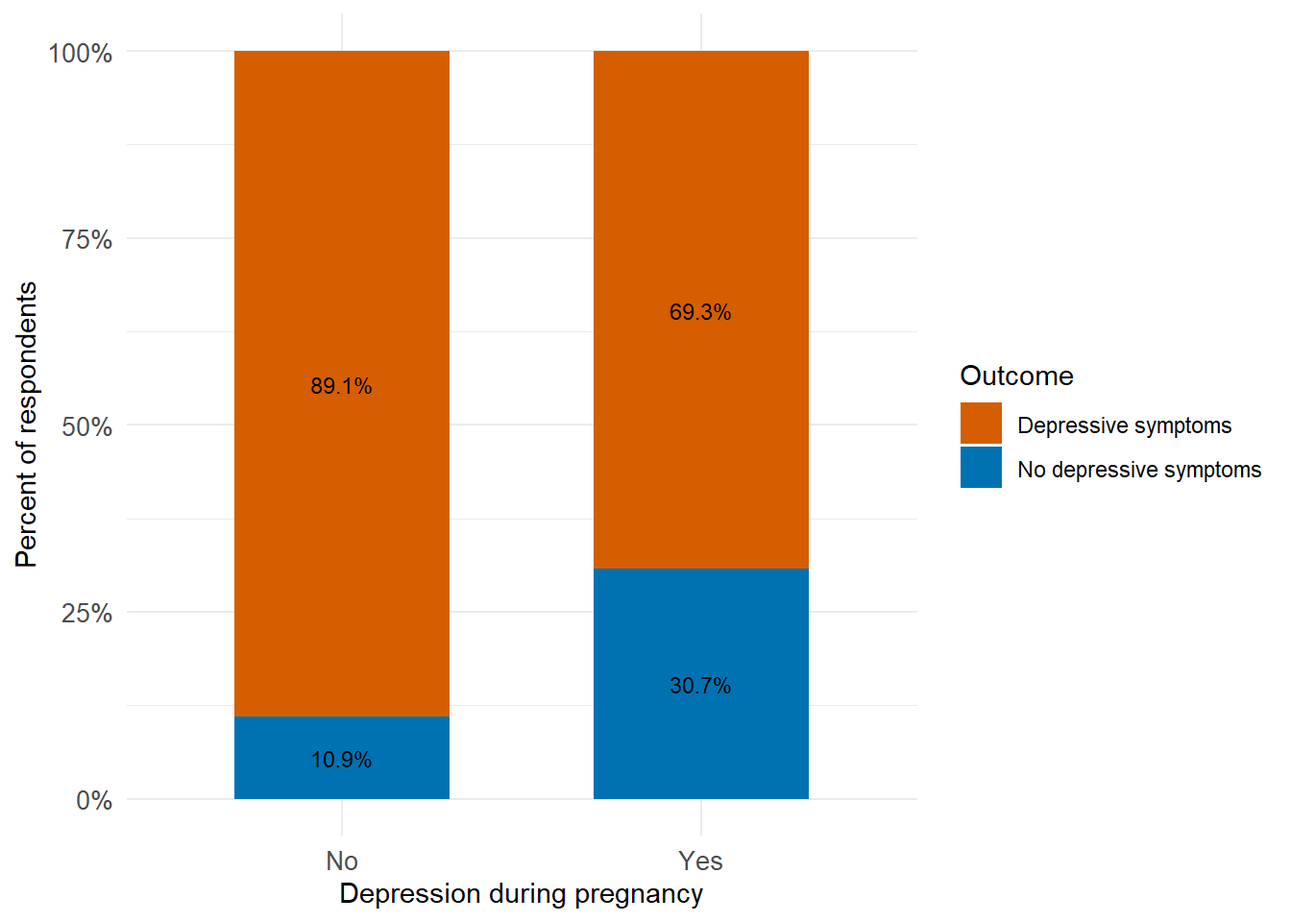
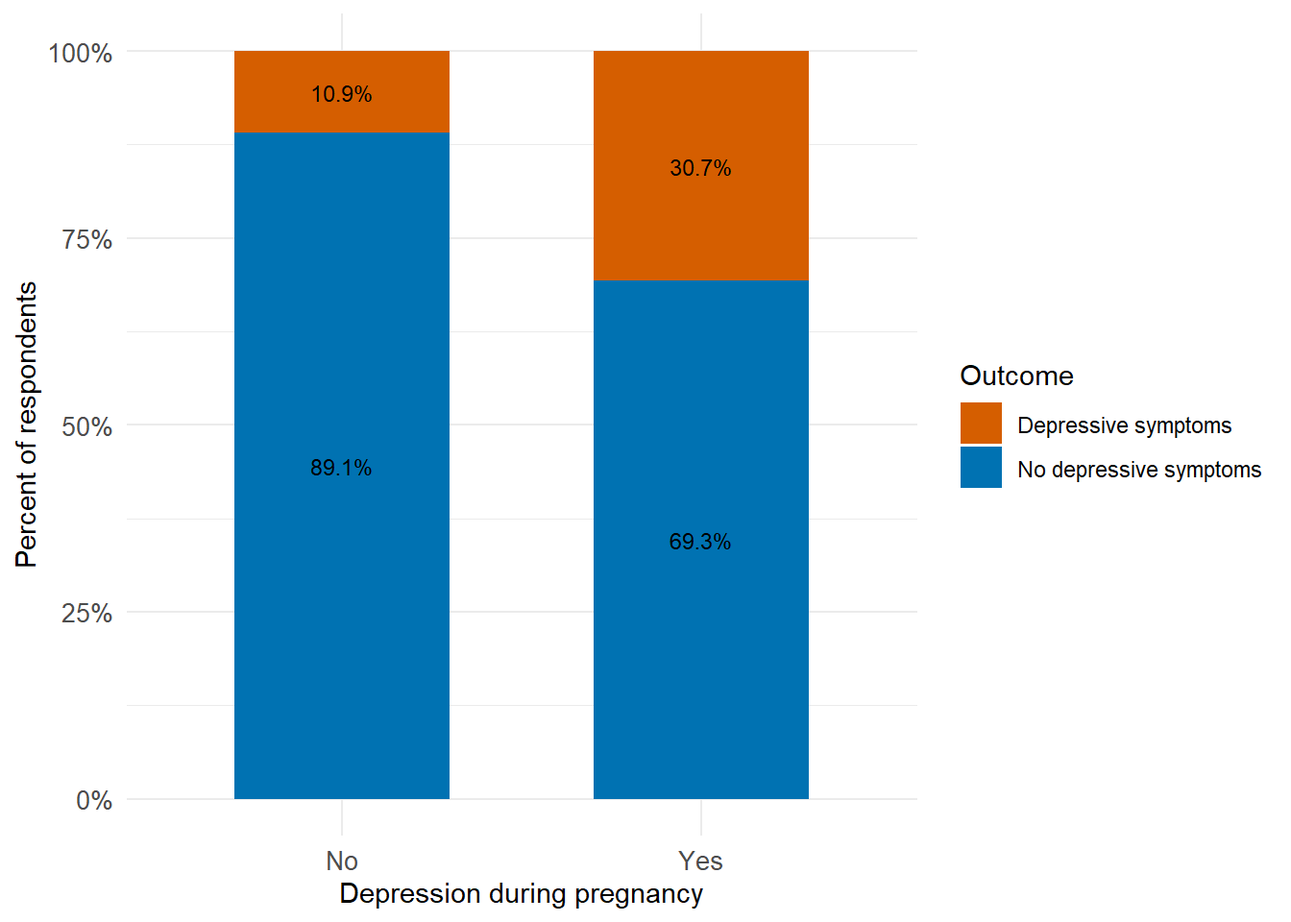
Fix manuscript corrections, model validation, README updates

diff --git a/products/manuscript/Manuscript.html b/products/manuscript/Manuscript.html
@@ -127,19 +127,19 @@ div.csl-indent {
 <p>Disclaimer: The opinions expressed in this article are the author’s own and do not reflect their employer.</p>
 <section id="abstract" class="level1" data-number="1">
 <h1 data-number="1"><span class="header-section-number">1</span> Abstract</h1>
-<p>This study examines whether prenatal mental health screening is associated with postpartum depressive symptoms using data from the Pregnancy Risk Assessment Monitoring System, or PRAMS, Phase 8. The analysis focuses on self reported prenatal care experiences and postpartum mental health outcomes.</p>
-<p>Descriptive statistics and multivariable logistic regression were used to evaluate whether screening is associated with differences in reported depressive symptoms while adjusting for key covariates. Prenatal mental health screening was associated with lower odds of postpartum depressive symptoms, although the magnitude of the association was modest. Findings should be interpreted cautiously because the data are observational and self reported.</p>
+<p>This study looks at whether being asked about mental health during prenatal care is associated with postpartum depressive symptoms using data from the Pregnancy Risk Assessment Monitoring System (PRAMS), Phase 8. The analysis focuses on self reported prenatal care experiences and postpartum mental health outcomes.</p>
+<p>Descriptive statistics and multivariable logistic regression were used to examine whether screening is associated with differences in reported depressive symptoms, while adjusting for key covariates. Prenatal mental health screening was associated with slightly lower odds of postpartum depressive symptoms. However, the size of this association was modest, and the results should be interpreted cautiously given the observational and self reported nature of the data.</p>
 </section>
 <section id="introduction" class="level1" data-number="2">
 <h1 data-number="2"><span class="header-section-number">2</span> Introduction</h1>
-<p>Postpartum depression is a significant public health concern that affects maternal well being, family functioning, and infant outcomes <span class="citation" data-cites="bauman2020vitalsigns">Bauman et al. (<a href="#ref-bauman2020vitalsigns" role="doc-biblioref">2020</a>)</span>. Clinical guidelines increasingly recommend routine screening for depression and anxiety during pregnancy and the postpartum period <span class="citation" data-cites="acog2023screening">American College of Obstetricians and Gynecologists (<a href="#ref-acog2023screening" role="doc-biblioref">2023</a>)</span>; <span class="citation" data-cites="uspstf2019perinatal">U.S. Preventive Services Task Force (<a href="#ref-uspstf2019perinatal" role="doc-biblioref">2019</a>)</span>.</p>
-<p>Despite these recommendations, it remains unclear whether prenatal mental health screening is associated with postpartum depressive symptoms in real world population settings. Much of the existing evidence comes from clinical or intervention based contexts, with less emphasis on population based surveillance data.</p>
-<p>Using PRAMS Phase 8 data, this study evaluates whether individuals who report being asked about depression or anxiety during prenatal care are less likely to report postpartum depressive symptoms.</p>
-<p>Prenatal and postpartum mental health conditions are increasingly recognized as critical components of maternal health. Poor maternal mental health has been associated with adverse outcomes for both mothers and infants, including reduced maternal functioning and challenges in early child development <span class="citation" data-cites="acog2023screening">American College of Obstetricians and Gynecologists (<a href="#ref-acog2023screening" role="doc-biblioref">2023</a>)</span>. As a result, healthcare providers are encouraged to assess mental health concerns throughout pregnancy and after delivery.</p>
-<p>Routine screening for depression during pregnancy may provide opportunities for earlier identification of individuals experiencing symptoms or those at elevated risk of developing postpartum depression. However, population level evidence examining how prenatal screening relates to postpartum depressive symptoms remains limited. Understanding this relationship may help inform both clinical practice and maternal health policy.</p>
-<p>The data for this study come from the Pregnancy Risk Assessment Monitoring System, a population based surveillance system conducted by the Centers for Disease Control and Prevention in collaboration with state health departments <span class="citation" data-cites="cdc_prams_phase8_codebook">Centers for Disease Control and Prevention (<a href="#ref-cdc_prams_phase8_codebook" role="doc-biblioref">2024a</a>)</span>; <span class="citation" data-cites="cdc_prams_phase8_topics">Centers for Disease Control and Prevention (<a href="#ref-cdc_prams_phase8_topics" role="doc-biblioref">2024b</a>)</span>. PRAMS collects self reported survey data from individuals who recently had a live birth and links these responses to selected birth certificate variables.</p>
-<p>PRAMS is designed to monitor maternal experiences and behaviors before, during, and shortly after pregnancy. The survey includes questions related to prenatal care, maternal health conditions, health behaviors, mental health, and postpartum experiences. These data allow researchers to examine population level patterns related to maternal and infant health.</p>
-<p>PRAMS Phase 8 includes several hundred variables capturing maternal demographics, pre pregnancy health conditions, prenatal care experiences, health behaviors, insurance coverage, mental health indicators, and postpartum outcomes. The dataset contains a mix of categorical and numeric variables and reflects the real world complexity of survey data, including skip patterns and missingness. Across participating states, PRAMS Phase 8 includes tens of thousands of respondents, providing sufficient sample size and variable richness to support exploratory analysis and regression modeling.</p>
+<p>Postpartum depression is a major public health concern that affects maternal well being, family functioning, and infant outcomes <span class="citation" data-cites="bauman2020vitalsigns">Bauman et al. (<a href="#ref-bauman2020vitalsigns" role="doc-biblioref">2020</a>)</span>. Clinical guidelines increasingly recommend routine screening for depression and anxiety during pregnancy and the postpartum period <span class="citation" data-cites="acog2023screening">American College of Obstetricians and Gynecologists (<a href="#ref-acog2023screening" role="doc-biblioref">2023</a>)</span>; <span class="citation" data-cites="uspstf2019perinatal">U.S. Preventive Services Task Force (<a href="#ref-uspstf2019perinatal" role="doc-biblioref">2019</a>)</span>.</p>
+<p>Even with these recommendations, it is still not clear whether prenatal mental health screening is associated with postpartum depressive symptoms at the population level. Much of the existing research comes from clinical or intervention based settings, with less focus on large scale surveillance data.</p>
+<p>Using PRAMS Phase 8 data, this study examines whether individuals who report being asked about depression or anxiety during prenatal care are less likely to report postpartum depressive symptoms.</p>
+<p>Prenatal and postpartum mental health are now recognized as key parts of maternal health. Poor maternal mental health has been linked to a range of negative outcomes for both mothers and infants, including challenges in maternal functioning and early child development <span class="citation" data-cites="acog2023screening">American College of Obstetricians and Gynecologists (<a href="#ref-acog2023screening" role="doc-biblioref">2023</a>)</span>. Because of this, providers are encouraged to assess mental health throughout pregnancy and after delivery.</p>
+<p>Screening during pregnancy may help identify individuals who are already experiencing symptoms or who may be at higher risk of postpartum depression. However, there is still limited population level evidence on how prenatal screening relates to postpartum depressive symptoms. Understanding this relationship could help inform both clinical practice and public health policy.</p>
+<p>The data for this study come from PRAMS, a population based surveillance system conducted by the Centers for Disease Control and Prevention in collaboration with state health departments <span class="citation" data-cites="cdc_prams_phase8_codebook">Centers for Disease Control and Prevention (<a href="#ref-cdc_prams_phase8_codebook" role="doc-biblioref">2024a</a>)</span>; <span class="citation" data-cites="cdc_prams_phase8_topics">Centers for Disease Control and Prevention (<a href="#ref-cdc_prams_phase8_topics" role="doc-biblioref">2024b</a>)</span>. PRAMS collects self reported survey data from individuals who recently had a live birth and links these responses to selected birth certificate variables.</p>
+<p>PRAMS is designed to capture maternal experiences and behaviors before, during, and shortly after pregnancy. It includes information on prenatal care, maternal health conditions, health behaviors, mental health, and postpartum experiences.</p>
+<p>PRAMS Phase 8 includes hundreds of variables covering demographics, health conditions, prenatal care experiences, and postpartum outcomes. Like many real world datasets, it includes a mix of variable types along with missing data and survey complexity. The large sample size makes it well suited for exploratory analysis and regression modeling.</p>
 </section>
 <section id="research-question" class="level1" data-number="3">
 <h1 data-number="3"><span class="header-section-number">3</span> Research Question</h1>
@@ -150,13 +150,13 @@ div.csl-indent {
 <h1 data-number="4"><span class="header-section-number">4</span> Methods</h1>
 <section id="use-of-computational-assistance" class="level2" data-number="4.1">
 <h2 data-number="4.1" class="anchored" data-anchor-id="use-of-computational-assistance"><span class="header-section-number">4.1</span> Use of Computational Assistance</h2>
-<p>Artificial intelligence tool ChatGPT was used to assist with code troubleshooting. All code and analytical decisions were reviewed, modified as needed, and implemented by the author. The author takes full responsibility for the accuracy, interpretation, and reproducibility of all analyses and results.</p>
+<p>ChatGPT was used to help troubleshoot parts of the code. All analyses, decisions, and interpretations were reviewed and completed by the author.</p>
 </section>
 </section>
 <section id="analysis-approach" class="level1" data-number="5">
 <h1 data-number="5"><span class="header-section-number">5</span> Analysis Approach</h1>
-<p>The analysis plan included descriptive summaries of key variables and exploratory comparisons between individuals who did and did not report prenatal mental health screening. These exploratory analyses were used to assess data quality, missingness, and preliminary patterns in the data.</p>
-<p>Regression based and model validation approaches were then used to examine associations between prenatal screening and postpartum mental health outcomes while accounting for relevant covariates.</p>
+<p>The analysis included descriptive summaries and exploratory comparisons between individuals who did and did not report prenatal mental health screening. These steps helped assess data quality, missingness, and initial patterns.</p>
+<p>Regression models and model validation approaches were then used to examine the relationship between prenatal screening and postpartum depressive symptoms while accounting for key covariates.</p>
 <section id="data-source" class="level2" data-number="5.1">
 <h2 data-number="5.1" class="anchored" data-anchor-id="data-source"><span class="header-section-number">5.1</span> Data Source</h2>
 <p>Data were obtained from PRAMS, a population based surveillance system conducted by the Centers for Disease Control and Prevention in collaboration with state health departments. PRAMS collects self reported information on maternal experiences before, during, and shortly after pregnancy.</p>
@@ -219,13 +219,13 @@ Table&nbsp;1: Study population characteristics
 </tr>
 <tr class="even">
 <td style="text-align: left;">Yes</td>
-<td style="text-align: right;">200,334</td>
-<td style="text-align: right;">85.9%</td>
+<td style="text-align: right;">32,879</td>
+<td style="text-align: right;">14.1%</td>
 </tr>
 <tr class="odd">
 <td style="text-align: left;">No</td>
-<td style="text-align: right;">32,879</td>
-<td style="text-align: right;">14.1%</td>
+<td style="text-align: right;">200,334</td>
+<td style="text-align: right;">85.9%</td>
 </tr>
 <tr class="even">
 <td style="text-align: left;">Depression during pregnancy</td>
@@ -289,8 +289,10 @@ Table&nbsp;1: Study population characteristics
 <section id="statistical-approach" class="level2" data-number="5.4">
 <h2 data-number="5.4" class="anchored" data-anchor-id="statistical-approach"><span class="header-section-number">5.4</span> Statistical Approach</h2>
 <p>Exploratory analyses included descriptive statistics, cross tabulations, and graphical comparisons of postpartum depressive symptoms by screening status. All analyses were conducted in R.</p>
-<p>Multivariable logistic regression models were specified with postpartum depressive symptoms as the binary outcome. Prenatal mental health screening was included as the primary exposure. Covariates included depression during pregnancy and maternal education. Results are presented as odds ratios with corresponding 95 percent confidence intervals.</p>
-<p>To incorporate model validation methods from this course, I also compared logistic regression with a random forest model using 5 fold cross validation. Model performance was evaluated using accuracy and ROC AUC. Cross validated mean performance and standard error were used to assess predictive performance and uncertainty across resamples.</p>
+<p>Multivariable logistic regression models were used with postpartum depressive symptoms as the outcome. Prenatal mental health screening was included as the main exposure, and models were adjusted for depression during pregnancy and maternal education. Results are presented as odds ratios with 95 percent confidence intervals.</p>
+<p>To incorporate concepts from this course, I also compared logistic regression with a random forest model using 5 fold cross validation. Model performance was evaluated using accuracy and ROC AUC. Mean performance and standard error across folds were used to assess both performance and variability.</p>
+<p>To explore whether more flexible models improved prediction, I used the tidymodels framework to fit both logistic regression and random forest models. The random forest model was fit using the ranger engine with 300 trees and default hyperparameters for mtry and minimum node size.</p>
+<p>This allowed for a direct comparison between a simpler, interpretable model and a more flexible machine learning approach.</p>
 <div style="page-break-after: always;"></div>
 </section>
 </section>
@@ -299,14 +301,53 @@ Table&nbsp;1: Study population characteristics
 <p>The analytic sample included 233,213 respondents after excluding observations with missing values for the primary exposure, outcome, and selected covariates. Overall, 18.9 percent of respondents reported being screened for depression during prenatal care, and 85.9 percent reported postpartum depressive symptoms.</p>
 <section id="exploratory-analysis" class="level2" data-number="6.1">
 <h2 data-number="6.1" class="anchored" data-anchor-id="exploratory-analysis"><span class="header-section-number">6.1</span> Exploratory Analysis</h2>
-<p>We first examined the distribution of prenatal mental health screening and postpartum depressive symptoms in the analytic sample. We also explored how postpartum depressive symptoms varied by screening status, depression during pregnancy, and maternal education.</p>
-<p>Descriptive results suggested that postpartum depressive symptoms were more common among respondents who did not report receiving prenatal mental health screening. Higher rates of postpartum depressive symptoms were also observed among respondents who reported depression during pregnancy. Differences across maternal education groups were also examined to assess potential patterns in the data.</p>
+<p>I first examined the distribution of prenatal mental health screening and postpartum depressive symptoms in the analytic sample. I also explored how postpartum depressive symptoms varied by screening status, depression during pregnancy, and maternal education. Descriptive results showed that postpartum depressive symptoms were slightly more common among respondents who were not screened during prenatal care (15.2%) compared with those who were screened (13.9%). Higher rates of postpartum depressive symptoms were also observed among respondents who reported depression during pregnancy. Differences across maternal education groups were also examined.</p>
 <p>These exploratory analyses helped identify initial patterns in the dataset and informed the selection of variables for adjusted modeling.</p>
+<div class="cell">
+<div id="tbl-bivariate" class="cell quarto-float quarto-figure quarto-figure-center anchored">
+<figure class="quarto-float quarto-float-tbl figure">
+<figcaption class="quarto-float-caption-top quarto-float-caption quarto-float-tbl" id="tbl-bivariate-caption-0ceaefa1-69ba-4598-a22c-09a6ac19f8ca">
+Table&nbsp;2: Unadjusted odds ratio for prenatal mental health screening and postpartum depressive symptoms
+</figcaption>
+<div aria-describedby="tbl-bivariate-caption-0ceaefa1-69ba-4598-a22c-09a6ac19f8ca">
+<div class="cell-output-display">
+<table class="table cell caption-top table-sm table-striped small">
+<thead>
+<tr class="header">
+<th style="text-align: left;" data-quarto-table-cell-role="th">Predictor</th>
+<th style="text-align: center;" data-quarto-table-cell-role="th">Odds ratio</th>
+<th style="text-align: center;" data-quarto-table-cell-role="th">95% CI</th>
+<th style="text-align: center;" data-quarto-table-cell-role="th">P value</th>
+</tr>
+</thead>
+<tbody>
+<tr class="odd">
+<td style="text-align: left;">Prenatal mental health screening</td>
+<td style="text-align: center;">0.91</td>
+<td style="text-align: center;">(0.88, 0.93)</td>
+<td style="text-align: center;">&lt;0.001</td>
+</tr>
+</tbody><tfoot>
+<tr class="odd">
+<td style="text-align: left; padding: 0;"><span style="font-style: italic;">Note:</span> <sup></sup> Unadjusted model. Reference group: not screened during prenatal care.</td>
+<td style="text-align: center;"></td>
+<td style="text-align: center;"></td>
+<td style="text-align: center;"></td>
+</tr>
+</tfoot>
+
+</table>
+</div>
+</div>
+</figure>
+</div>
+</div>
+<p>The unadjusted model showed a similar pattern, with screened respondents having lower odds of postpartum depressive symptoms before accounting for covariates.</p>
 <div class="cell">
 <div id="tbl-multivariable" class="cell quarto-float quarto-figure quarto-figure-center anchored">
 <figure class="quarto-float quarto-float-tbl figure">
 <figcaption class="quarto-float-caption-top quarto-float-caption quarto-float-tbl" id="tbl-multivariable-caption-0ceaefa1-69ba-4598-a22c-09a6ac19f8ca">
-Table&nbsp;2: Adjusted odds ratios for postpartum depressive symptoms
+Table&nbsp;3: Adjusted odds ratios for factors associated with postpartum depressive symptoms
 </figcaption>
 <div aria-describedby="tbl-multivariable-caption-0ceaefa1-69ba-4598-a22c-09a6ac19f8ca">
 <div class="cell-output-display">
@@ -321,7 +362,7 @@ Table&nbsp;2: Adjusted odds ratios for postpartum depressive symptoms
 </thead>
 <tbody>
 <tr class="odd">
-<td style="text-align: left;">Screened during prenatal care</td>
+<td style="text-align: left;">Prenatal mental health screening</td>
 <td style="text-align: center;">0.76</td>
 <td style="text-align: center;">(0.74, 0.78)</td>
 <td style="text-align: center;">&lt;0.001</td>
@@ -333,30 +374,38 @@ Table&nbsp;2: Adjusted odds ratios for postpartum depressive symptoms
 <td style="text-align: center;">&lt;0.001</td>
 </tr>
 <tr class="odd">
-<td style="text-align: left;">High school graduate</td>
+<td style="text-align: left;">Education: High school graduate</td>
 <td style="text-align: center;">0.74</td>
 <td style="text-align: center;">(0.68, 0.80)</td>
 <td style="text-align: center;">&lt;0.001</td>
 </tr>
 <tr class="even">
-<td style="text-align: left;">Some college</td>
+<td style="text-align: left;">Education: Some college</td>
 <td style="text-align: center;">0.78</td>
 <td style="text-align: center;">(0.72, 0.84)</td>
 <td style="text-align: center;">&lt;0.001</td>
 </tr>
 <tr class="odd">
-<td style="text-align: left;">College graduate</td>
+<td style="text-align: left;">Education: College graduate</td>
 <td style="text-align: center;">0.92</td>
 <td style="text-align: center;">(0.85, 0.99)</td>
 <td style="text-align: center;">0.034</td>
 </tr>
 <tr class="even">
-<td style="text-align: left;">More than college</td>
+<td style="text-align: left;">Education: More than college</td>
 <td style="text-align: center;">1.44</td>
 <td style="text-align: center;">(1.33, 1.56)</td>
 <td style="text-align: center;">&lt;0.001</td>
 </tr>
-</tbody>
+</tbody><tfoot>
+<tr class="odd">
+<td style="text-align: left; padding: 0;"><span style="font-style: italic;">Note:</span> <sup></sup> Reference groups: not screened during prenatal care, no depression during pregnancy, less than high school education.</td>
+<td style="text-align: center;"></td>
+<td style="text-align: center;"></td>
+<td style="text-align: center;"></td>
+</tr>
+</tfoot>
+
 </table>
 </div>
 </div>
@@ -396,7 +445,7 @@ Figure&nbsp;2: Postpartum depressive symptoms by depression during pregnancy
 <div id="tbl-screening" class="cell quarto-float quarto-figure quarto-figure-center anchored">
 <figure class="quarto-float quarto-float-tbl figure">
 <figcaption class="quarto-float-caption-top quarto-float-caption quarto-float-tbl" id="tbl-screening-caption-0ceaefa1-69ba-4598-a22c-09a6ac19f8ca">
-Table&nbsp;3: Distribution of postpartum depressive symptoms by prenatal mental health screening
+Table&nbsp;4: Distribution of postpartum depressive symptoms by prenatal mental health screening
 </figcaption>
 <div aria-describedby="tbl-screening-caption-0ceaefa1-69ba-4598-a22c-09a6ac19f8ca">
 <div class="cell-output-display">
@@ -404,8 +453,8 @@ Table&nbsp;3: Distribution of postpartum depressive symptoms by prenatal mental 
 <thead>
 <tr class="header">
 <th style="text-align: left;">Screening status</th>
-<th style="text-align: center;">No depressive symptoms</th>
 <th style="text-align: center;">Depressive symptoms</th>
+<th style="text-align: center;">No depressive symptoms</th>
 </tr>
 </thead>
 <tbody>
@@ -426,12 +475,12 @@ Table&nbsp;3: Distribution of postpartum depressive symptoms by prenatal mental 
 </figure>
 </div>
 </div>
-<p>The table on postpartum depressive symptoms by screening status shows that 15.2 percent of respondents who were not screened during prenatal care reported postpartum depressive symptoms, compared with 13.9 percent among those who were screened.</p>
+<p>The table shows that 15.2% of respondents who were not screened reported postpartum depressive symptoms, compared with 13.9% among those who were screened, consistent with the adjusted model results.</p>
 <div class="cell">
 <div id="tbl-model-validation" class="cell quarto-float quarto-figure quarto-figure-center anchored">
 <figure class="quarto-float quarto-float-tbl figure">
 <figcaption class="quarto-float-caption-top quarto-float-caption quarto-float-tbl" id="tbl-model-validation-caption-0ceaefa1-69ba-4598-a22c-09a6ac19f8ca">
-Table&nbsp;4: Model validation results comparing logistic regression and random forest
+Table&nbsp;5: Model validation results comparing logistic regression and random forest
 </figcaption>
 <div aria-describedby="tbl-model-validation-caption-0ceaefa1-69ba-4598-a22c-09a6ac19f8ca">
 <div class="cell-output-display">
@@ -461,23 +510,40 @@ Table&nbsp;4: Model validation results comparing logistic regression and random 
 </figure>
 </div>
 </div>
-<p>Reference groups were not screened during prenatal care, no depression during pregnancy, and less than high school education.</p>
-<p>In adjusted analyses, respondents who reported prenatal mental health screening had lower odds of postpartum depressive symptoms compared with those who were not screened. In the multivariable model, prenatal screening was associated with lower odds of postpartum depressive symptoms after adjustment for depression during pregnancy and maternal education.</p>
-<p>Model validation results from 5 fold cross validation indicated that logistic regression and random forest performed similarly on both accuracy and ROC AUC. Standard errors across the resamples were also small, suggesting little difference in predictive performance between the two approaches. Because the random forest did not meaningfully improve performance, logistic regression was retained as the preferred model due to its interpretability and easier explanation of associations.</p>
+<div class="cell">
+<div class="cell-output-display">
+<div id="fig-model-performance" class="quarto-float quarto-figure quarto-figure-center anchored">
+<figure class="quarto-float quarto-float-fig figure">
+<div aria-describedby="fig-model-performance-caption-0ceaefa1-69ba-4598-a22c-09a6ac19f8ca">
+<img src="Manuscript_files/figure-html/fig-model-performance-1.png" class="img-fluid figure-img" width="672">
+</div>
+<figcaption class="quarto-float-caption-bottom quarto-float-caption quarto-float-fig" id="fig-model-performance-caption-0ceaefa1-69ba-4598-a22c-09a6ac19f8ca">
+Figure&nbsp;3: Cross-validation performance of logistic regression and random forest
+</figcaption>
+</figure>
+</div>
+</div>
+</div>
+<p>Figure <a href="#fig-model-performance" class="quarto-xref">Figure&nbsp;3</a> shows that logistic regression and random forest had very similar performance across both accuracy and ROC AUC. The standard errors across folds were small for both models, indicating that performance estimates were stable regardless of which observations held out. A ROC AUC of approximately 0.656 reflects modest discriminative ability beyond chance, which is consistent with the small number of predictors included in the model.</p>
+<p>The logistic regression and random forest models performed very similarly. The random forest model did not meaningfully improve accuracy or ROC AUC compared with logistic regression.</p>
+<p>Performance was consistent across cross-validation folds, and the small standard errors suggest that the results were stable across resamples. This increases confidence that the findings are not driven by overfitting.</p>
+<p>In the adjusted model, respondents who reported prenatal mental health screening had lower odds of postpartum depressive symptoms compared with those who were not screened, even after accounting for depression during pregnancy and maternal education.</p>
+<p>Because the more complex model did not provide a clear improvement, logistic regression was retained as the preferred model due to its interpretability.</p>
 </section>
 </section>
 <section id="discussion" class="level1" data-number="7">
 <h1 data-number="7"><span class="header-section-number">7</span> Discussion</h1>
-<p>This study evaluated the association between prenatal mental health screening and postpartum depressive symptoms using population based PRAMS data. Respondents who reported prenatal mental health screening had lower odds of postpartum depressive symptoms than those who were not screened, even after adjustment for depression during pregnancy and maternal education.</p>
-<p>Although PRAMS includes survey weights and design variables, the analyses presented here are unweighted and intended as an exploratory course project focused on reproducible modeling workflows. In addition to descriptive and regression analyses, this project also incorporated cross validation and model comparison to evaluate whether a more flexible machine learning approach improved prediction beyond logistic regression.</p>
-<p>These findings are generally consistent with existing research showing that postpartum depressive symptoms remain a significant public health concern in the United States. Previous analyses using PRAMS data have documented that a substantial proportion of women report postpartum depressive symptoms and that provider discussions about perinatal depression vary across populations and healthcare settings <span class="citation" data-cites="bauman2020vitalsigns">Bauman et al. (<a href="#ref-bauman2020vitalsigns" role="doc-biblioref">2020</a>)</span>; <span class="citation" data-cites="farr2016provider">Farr et al. (<a href="#ref-farr2016provider" role="doc-biblioref">2016</a>)</span>. Clinical guidelines from organizations such as the American College of Obstetricians and Gynecologists recommend routine screening for depression during pregnancy and the postpartum period to support earlier identification and intervention <span class="citation" data-cites="acog2023screening">American College of Obstetricians and Gynecologists (<a href="#ref-acog2023screening" role="doc-biblioref">2023</a>)</span>.</p>
-<p>The exploratory results from this study suggest that prenatal screening may be associated with differences in postpartum mental health outcomes at the population level. However, these results should be interpreted cautiously. Because the data are observational and based on self reported survey responses, the analyses cannot determine whether prenatal screening itself reduces postpartum depressive symptoms. It is possible that individuals who receive more comprehensive prenatal care are also more likely to receive screening and additional support services that influence postpartum mental health outcomes.</p>
-<p>Depression during pregnancy emerged as one of the strongest predictors of postpartum depressive symptoms in the adjusted analyses. This finding aligns with previous research showing that mental health history is an important risk factor for postpartum depression. Accounting for prior depression is therefore essential when examining associations between prenatal care experiences and postpartum mental health outcomes.</p>
-<p>Several strengths of this study should be noted. PRAMS provides a large, population based dataset that captures maternal experiences across multiple states. The survey includes detailed information on prenatal care experiences, health behaviors, and postpartum outcomes, allowing researchers to examine mental health patterns at a population level. The large sample size also supports exploratory regression analyses and the evaluation of multiple potential confounders.</p>
-<p>This study also has several limitations. First, PRAMS data are self reported and may be subject to recall bias or reporting bias. Second, the postpartum depressive symptom measure used in PRAMS is not a clinical diagnosis of depression but rather a survey based indicator of depressive symptoms. Third, the cross sectional nature of the survey limits the ability to determine temporal relationships or causal effects. Finally, unmeasured factors such as healthcare access, provider practices, or social support may influence both screening and postpartum mental health outcomes.</p>
-<p>Despite these limitations, the findings highlight the potential value of examining prenatal mental health screening practices using population based surveillance data. Understanding how screening practices relate to maternal mental health outcomes may help inform future research and public health efforts aimed at improving maternal mental health.</p>
-<p>Future analyses could expand on this work by incorporating additional covariates such as insurance status, socioeconomic indicators, and access to mental health services. Additional machine learning approaches, weighted survey analyses, and more detailed model assessment could also be used to explore predictors of postpartum depressive symptoms and identify subgroups that may benefit most from screening and early intervention.</p>
-<p>Overall, this study demonstrates how large surveillance datasets such as PRAMS can be used to explore maternal mental health patterns and generate hypotheses for future research. Continued attention to perinatal mental health remains important for improving maternal and infant health outcomes.</p>
+<p>This study examined the relationship between prenatal mental health screening and postpartum depressive symptoms using PRAMS data. Individuals who reported being screened during prenatal care had slightly lower odds of postpartum depressive symptoms, even after adjusting for key factors.</p>
+<p>The analyses in this project were unweighted and were intended as an exploratory exercise focused on applying modeling concepts from the course. In addition to regression models, I also included cross-validation and model comparison to better understand model performance.</p>
+<p>These findings are consistent with previous research showing that postpartum depressive symptoms remain an important public health issue. Prior studies using PRAMS have shown that many women report postpartum depressive symptoms and that provider screening practices vary across populations <span class="citation" data-cites="bauman2020vitalsigns">Bauman et al. (<a href="#ref-bauman2020vitalsigns" role="doc-biblioref">2020</a>)</span>; <span class="citation" data-cites="farr2016provider">Farr et al. (<a href="#ref-farr2016provider" role="doc-biblioref">2016</a>)</span>. Clinical guidelines continue to emphasize the importance of screening during pregnancy and the postpartum period <span class="citation" data-cites="acog2023screening">American College of Obstetricians and Gynecologists (<a href="#ref-acog2023screening" role="doc-biblioref">2023</a>)</span>.</p>
+<p>The results suggest that prenatal screening may be linked to differences in postpartum mental health outcomes. However, these findings should be interpreted carefully. Because the data are observational and self reported, it is not possible to determine whether screening itself leads to improved outcomes. It is likely that individuals who receive screening also differ in other ways, such as access to care or provider engagement.</p>
+<p>Depression during pregnancy was one of the strongest predictors of postpartum depressive symptoms. This aligns with existing research and highlights the importance of accounting for prior mental health when studying postpartum outcomes.</p>
+<p>This study has a few strengths. PRAMS provides a large, population-based dataset with detailed information on maternal experiences, and the sample size allows for exploratory modeling with multiple covariates.</p>
+<p>There are also important limitations. PRAMS data are self reported and may include recall bias. The outcome reflects reported symptoms rather than a clinical diagnosis. The cross sectional design limits conclusions about causality. In addition, unmeasured factors such as access to care or social support may influence both screening and outcomes.</p>
+<p>Future work could include additional variables such as insurance status, socioeconomic factors, and access to mental health services. More advanced modeling approaches or weighted analyses could also provide further insight.</p>
+<p>Overall, this project shows how PRAMS data can be used to explore maternal mental health at the population level and identify areas for future research.</p>
+<p>Including machine learning methods allowed me to test whether a more complex model would improve prediction. In this case, the random forest model did not perform meaningfully better than logistic regression. This suggests that the relationships in the data may be relatively simple or that the available predictors are limited.</p>
+<p>Overall, these results show that more complex models do not always lead to better performance. Simpler models can often perform just as well and are easier to interpret.</p>
 <div style="page-break-after: always;"></div>
 </section>
 <section id="references" class="level1 unnumbered" data-number="8">
@@ -499,7 +565,7 @@ Centers for Disease Control and Prevention. (2024a). <em>Phase 8 automated resea
 Centers for Disease Control and Prevention. (2024b). <em>PRAMS phase 8 topic reference document</em>. <a href="https://www.cdc.gov/prams/pdf/questionnaire/phase-8-topics-reference_508tagged.pdf">https://www.cdc.gov/prams/pdf/questionnaire/phase-8-topics-reference_508tagged.pdf</a>
 </div>
 <div id="ref-farr2016provider" class="csl-entry" role="listitem">
-Farr, S. L., Dietz, P. M., O’Hara, M. W., Burley, K., Ko, J. Y., &amp; Gibbs Pickens, C. M. (2016). Provider communication on perinatal depression: A population-based study. <em>Archives of Women’s Mental Health</em>, <em>19</em>(1), 35–40. https://doi.org/<a href="https://doi.org/10.1089/jwh.2013.4438">https://doi.org/10.1089/jwh.2013.4438</a>
+Farr, S. L., Dietz, P. M., O’Hara, M. W., Burley, K., Ko, J. Y., &amp; Gibbs Pickens, C. M. (2016). Provider communication on perinatal depression: A population-based study. <em>Archives of Women’s Mental Health</em>, <em>19</em>(1), 35–40. <a href="https://doi.org/10.1007/s00737-014-0499-y">https://doi.org/10.1007/s00737-014-0499-y</a>
 </div>
 <div id="ref-uspstf2019perinatal" class="csl-entry" role="listitem">
 U.S. Preventive Services Task Force. (2019). <em>Perinatal depression: Preventive interventions</em>. <a href="https://www.uspreventiveservicestaskforce.org/uspstf/recommendation/perinatal-depression-preventive-interventions">https://www.uspreventiveservicestaskforce.org/uspstf/recommendation/perinatal-depression-preventive-interventions</a>

diff --git a/products/README.md b/products/README.md
@@ -1,19 +1,39 @@
-# products
+## Reproducibility
 
-The folders inside this folder should contain all the products of your project.
+Run all scripts in the following order. Each script must complete successfully 
+before running the next.
 
-For a classical academic project, this will be a peer-reviewed manuscript. Often, you will also give presentations and/or make posters based on your work.
+1. `code/processing-code/01_load_clean.qmd`
+   - Output: `data/processed-data/prams_clean.rds`
 
-The `manuscript` folder contains a template for an academic manuscript. The content of the template is structured as a report for a class, but you can easily replace it with whatever structure you need.
+2. `code/processing-code/02_create_analytic_dataset.qmd`
+   - Output: `data/processed-data/prams_analytic_localfix.rds`
+   - Note: prams_analytic_localfix.rds is the file used for all downstream 
+     analyses and manuscript rendering. It was created to resolve a file 
+     compatibility issue with the original analytic dataset.
 
-Most manuscripts these days have supplementary material, place those into the `supplement` folder. (You can have the supplement inside the `manuscript` folder or next to it, whatever is better for your setup).
+3. `code/eda-code/03_exploratory_analysis.qmd`
+   - Output: `results/figures/screening_vs_postpartum_depression.png`
+   - Output: `results/tables/screening_distribution.rds`
 
-Often, you might make/give a presentation on your work and make slides for that. An example is the `presentation` folder. 
+4. `code/analysis-code/04_statistical_analysis.qmd`
+   - Output: `results/tables/glm_bivariate_screened.rds`
+   - Output: `results/tables/glm_multivariable_main.rds`
+   - Output: `results/output/tidymodels_logistic_main.rds`
 
-Similarly, it is common to make posters to present at conferences. Those can go into the `poster` folder.
+5. `code/analysis-code/05_model_validation.qmd`
+   - Output: `results/tables/model_comparison.rds`
+   - Output: `results/figures/roc_curve_comparison.png`
 
-Often you need a library of references in BibTeX format, as well as a CSL style file that determines reference formatting. Those files might be used by several of the products. They should be placed into the `assets` folder, or for presentations and posters, separately into their respective `media` folders.
+6. `quarto render products/manuscript/Manuscript.qmd`
 
-You can add further folders. For instance, if you have multiple presentations or posters, you might want to create subfolders for each. 
-Or you could have a `blog-post` folder if you plan to write a blog-post. It's up to you how to structure/organize, as long as it is somewhat logical and you document it. Ideally, put a readme file in each folder to orient others/your future self on what is going on.  
+## Note on file paths
 
+The README lists `code/processing/` but the actual folder is 
+`code/processing-code/`. All paths above reflect the actual folder names.
+
+- `code/processing-code/01_load_clean.qmd`
+- `code/processing-code/02_create_analytic_dataset.qmd`
+- `code/eda-code/03_exploratory_analysis.qmd`
+- `code/analysis-code/04_statistical_analysis.qmd`
+- `code/analysis-code/05_model_validation.qmd`
